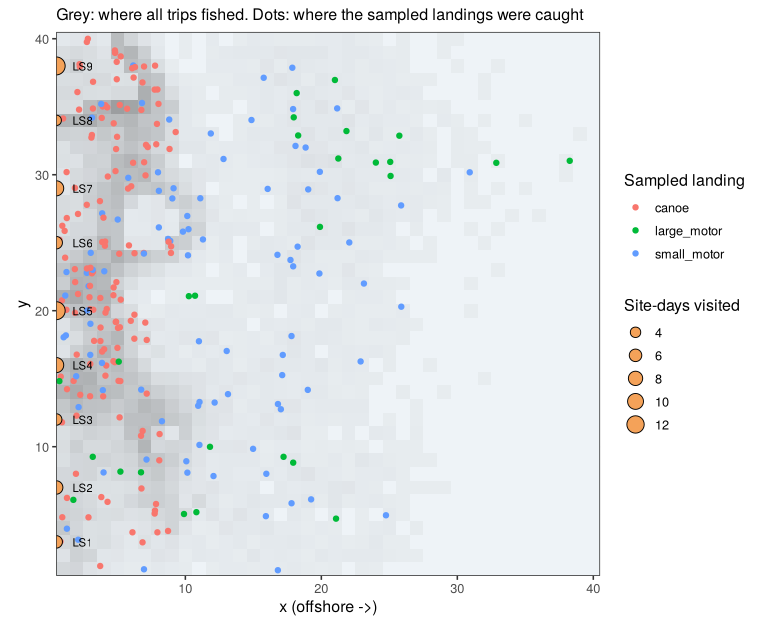
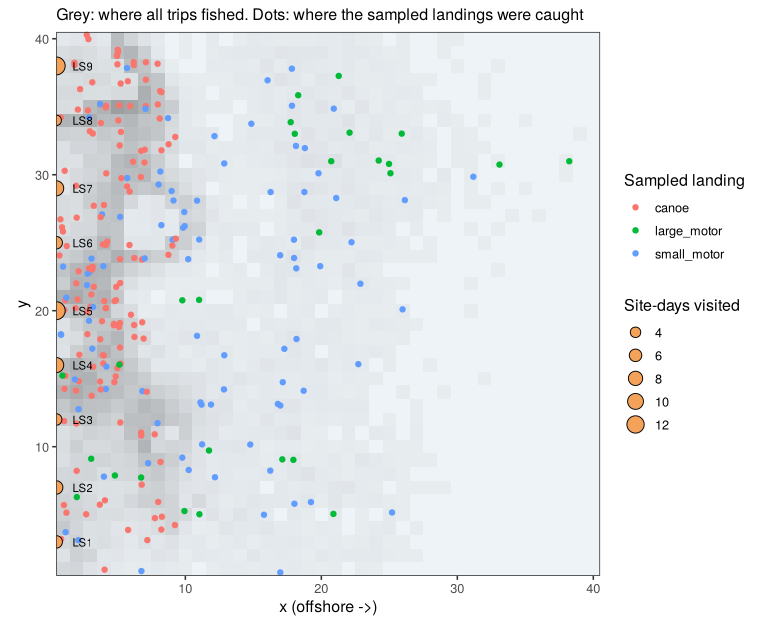
Fix the walkthrough flow chart on the pkgdown site
Claude-Session: https://claude.ai/code/session_01Q8gLbWgWuNt5yUKhSwkswm

diff --git a/docs/articles/casimir-02-user-guide.html b/docs/articles/casimir-02-user-guide.html
@@ -94,7 +94,10 @@
 .info    { background: #eef4fb; border-left: 4px solid #2a5db0; }
 .flag    { background: #fbefed; border-left: 4px solid #b0402a; }
 </style>
-<p><img src="../../../../usr/local/lib/R/site-library/casimir/app/www/casimir-landing.svg" width="100%" style="display: block; margin: auto;"></p>
+<div class="float">
+<img src="casimir-landing.svg" style="width:100.0%" alt="The casimir workflow: build the island, list the frame, design, roll, raise, spin."><div class="figcaption">The casimir workflow: build the island, list the
+frame, design, roll, raise, spin.</div>
+</div>
 <p>This walkthrough designs a catch survey on Island X, rolls it, raises
 it to catch per species and fleet segment, and then judges the design by
 spinning it many times and running it for five years. Every step is a
